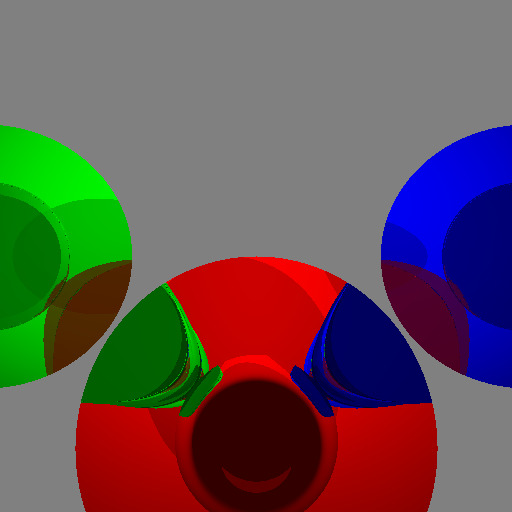
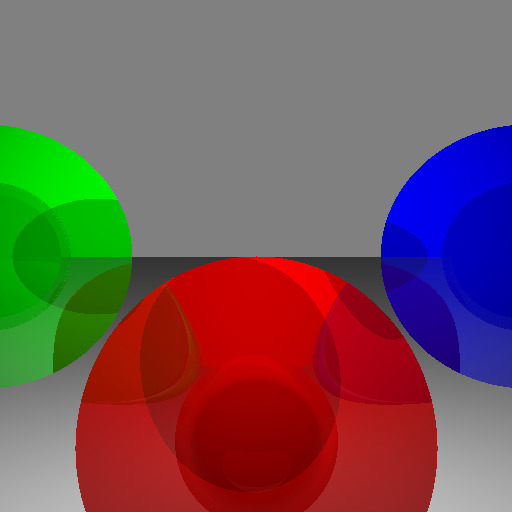
Implement Plane

diff --git a/src/source/scene.cpp b/src/source/scene.cpp
@@ -3,29 +3,51 @@
 
 float Scene::get_closest_intersection(const Ray& ray, Hit& hit, float tmin, float tmax) {
 	float closest_t = INFINITY;
-	Sphere* closest_sphere = NULL;
+	float sphere_t = INFINITY;
+	float plane_t = INFINITY;
+	Sphere* closest_sphere = nullptr;
+	Plane* closest_plane = nullptr;
 
-	// Find the closest sphere that intersects the ray and the t value
+	// Determine if the ray intersects a sphere and get the closest t value if it does
 	for (Sphere& sphere : spheres) {
 		float t1, t2 = 0;
 		sphere.intersects(ray, &t1, &t2);
 
 		if (t1 > tmin && t1 < tmax && t1 < closest_t) {
 			closest_t = t1;
+			sphere_t = t1;
 			closest_sphere = &sphere;
 		}
 		if (t2 > tmin && t2 < tmax && t2 < closest_t) {
 			closest_t = t2;
+			sphere_t = t2;
 			closest_sphere = &sphere;
 		}
 	}
 
-	if (closest_sphere == NULL)
+	// Determine if the ray intersects a plane and get the t value if it does
+	for (Plane& plane : planes) {
+		float t = plane.raycast(ray);
+		if (t > tmin && t < tmax && t < closest_t) {
+			closest_t = t;
+			plane_t = t;
+			closest_plane = &plane;
+		}
+	}
+
+	if (closest_sphere == nullptr && closest_plane == nullptr)
 		return -1;
 
+	// Determine which object is closest and set the hit properties
 	hit.point = ray.origin + ray.direction * closest_t;
-	hit.normal = normalized_vector(hit.point - closest_sphere->center);
-	hit.material = closest_sphere->material;
+	if (closest_plane != nullptr) {
+		hit.normal = closest_plane->get_normal(hit.point);
+		hit.material = closest_plane->material;
+	}
+	if (closest_sphere != nullptr) {
+		hit.normal = closest_sphere->get_normal(hit.point);
+		hit.material = closest_sphere->material;
+	}
 
 	return closest_t;
 }

diff --git a/src/source/main.cpp b/src/source/main.cpp
@@ -10,14 +10,18 @@ int main() {
 	Scene scene(canvas, viewport, camera);
 
 	// Create some materials
-	Material red_material(Color(255, 0, 0), 256, 1.0f);
-	Material blue_material(Color(0, 0, 255), 500, 0.8f);
-	Material green_material(Color(0, 255, 0), 10, 0.8f);
+	Material red_material(Color(255, 0, 0), 256, 0.2f);
+	Material blue_material(Color(0, 0, 255), 500, 0.3f);
+	Material green_material(Color(0, 255, 0), 10, 0.4f);
+	Material white_material(Color(255, 255, 255), 100, 0.5f);
 
 	// Create some spheres
 	scene.Add(Sphere(Point(0, -1, 3), 1, red_material));
 	scene.Add(Sphere(Point(2, 0, 4), 1, blue_material));
 	scene.Add(Sphere(Point(-2, 0, 4), 1, green_material));
+
+	// Create a plane
+	scene.Add(Plane(Vector3(0, 1, 0), -12.0f, white_material));
 
 	// Create some lights
 	scene.Add(Light(0.2f, Color(255, 255, 255)));
@@ -32,7 +36,7 @@ int main() {
 		for (int x = -canvas.width / 2; x < canvas.width / 2; x++) {
 			Hit hit;
 			Vector3 direction = canvas_to_viewport(canvas, viewport, x, y, 1) * camera.rotation;
-			Color color = scene.trace_ray(Ray(camera.position, direction), hit, scene.bias, INFINITY, 3);
+			Color color = scene.trace_ray(Ray(camera.position, direction), hit, scene.bias, INFINITY, 100);
 			put_pixel(x, y, color, image);
 		}
 	}

diff --git a/src/source/plane.cpp b/src/source/plane.cpp
@@ -1,0 +1,24 @@
+#include "../headers/plane.h"
+
+float Plane::raycast(const Ray& ray) {
+	float direction_dot_normal = dot_product(ray.direction, normal);
+	float origin_dot_normal = dot_product(ray.origin, normal);
+
+	if (direction_dot_normal >= 0.0f)
+		return -1;
+
+	float t = (distance - origin_dot_normal) / direction_dot_normal;
+
+	if (t >= 0.0f)
+		return t;
+	
+	return -1;
+}
+
+Vector3 Plane::get_normal(const Point& point) {
+	return normal;
+}
+
+float plane_equation(const Plane& plane, const Point& point) {
+	return dot_product(point, plane.normal) - plane.distance;
+}

diff --git a/src/headers/plane.h b/src/headers/plane.h
@@ -1,0 +1,33 @@
+#ifndef _PLANE_H_
+#define _PLANE_H_
+
+#include "vector.h"
+#include "material.h"
+#include "ray.h"
+
+typedef struct Plane {
+
+	Vector3 normal;
+	float distance;
+	Material material;
+
+	Plane() {
+		normal = Vector3();
+		distance = 0.0f;
+		material = Material();
+	}
+
+	Plane(Vector3 n, float d, Material m) {
+		normal = n;
+		distance = d;
+		material = m;
+	}
+
+	float raycast(const Ray& ray);
+	Vector3 get_normal(const Point& point);
+
+} Plane;
+
+float plane_equation(const Plane& plane, const Point& point);
+
+#endif

diff --git a/src/headers/scene.h b/src/headers/scene.h
@@ -2,6 +2,7 @@
 #define _SCENE_H_
 
 #include "sphere.h"
+#include "plane.h"
 #include "canvas.h"
 #include "viewport.h"
 #include "hit.h"
@@ -13,6 +14,7 @@
 typedef struct Scene {
 
 	std::vector<Sphere> spheres;
+	std::vector<Plane> planes;
 	std::vector<Light> lights;
 
 	Canvas canvas;
@@ -35,6 +37,10 @@ typedef struct Scene {
 
 	void Add(const Sphere& sphere) {
 		spheres.push_back(sphere);
+	}
+
+	void Add(const Plane& plane) {
+		planes.push_back(plane);
 	}
 
 	void Add(const Light& light) {

diff --git a/src/source/sphere.cpp b/src/source/sphere.cpp
@@ -19,3 +19,7 @@ float Sphere::intersects(const Ray& ray, float* t1, float* t2) const {
 	*t1 = (-b + discriminant / 2 * a);
 	*t2 = (-b - discriminant / 2 * a);
 }
+
+Vector3 Sphere::get_normal(const Point& point) {
+	return normalized_vector(point - center);
+}

diff --git a/src/headers/sphere.h b/src/headers/sphere.h
@@ -24,6 +24,7 @@ public:
 	}
 
 	float intersects(const Ray& ray, float* t1, float* t2) const;
+	Vector3 get_normal(const Point& point);
 };
 
 #endif
